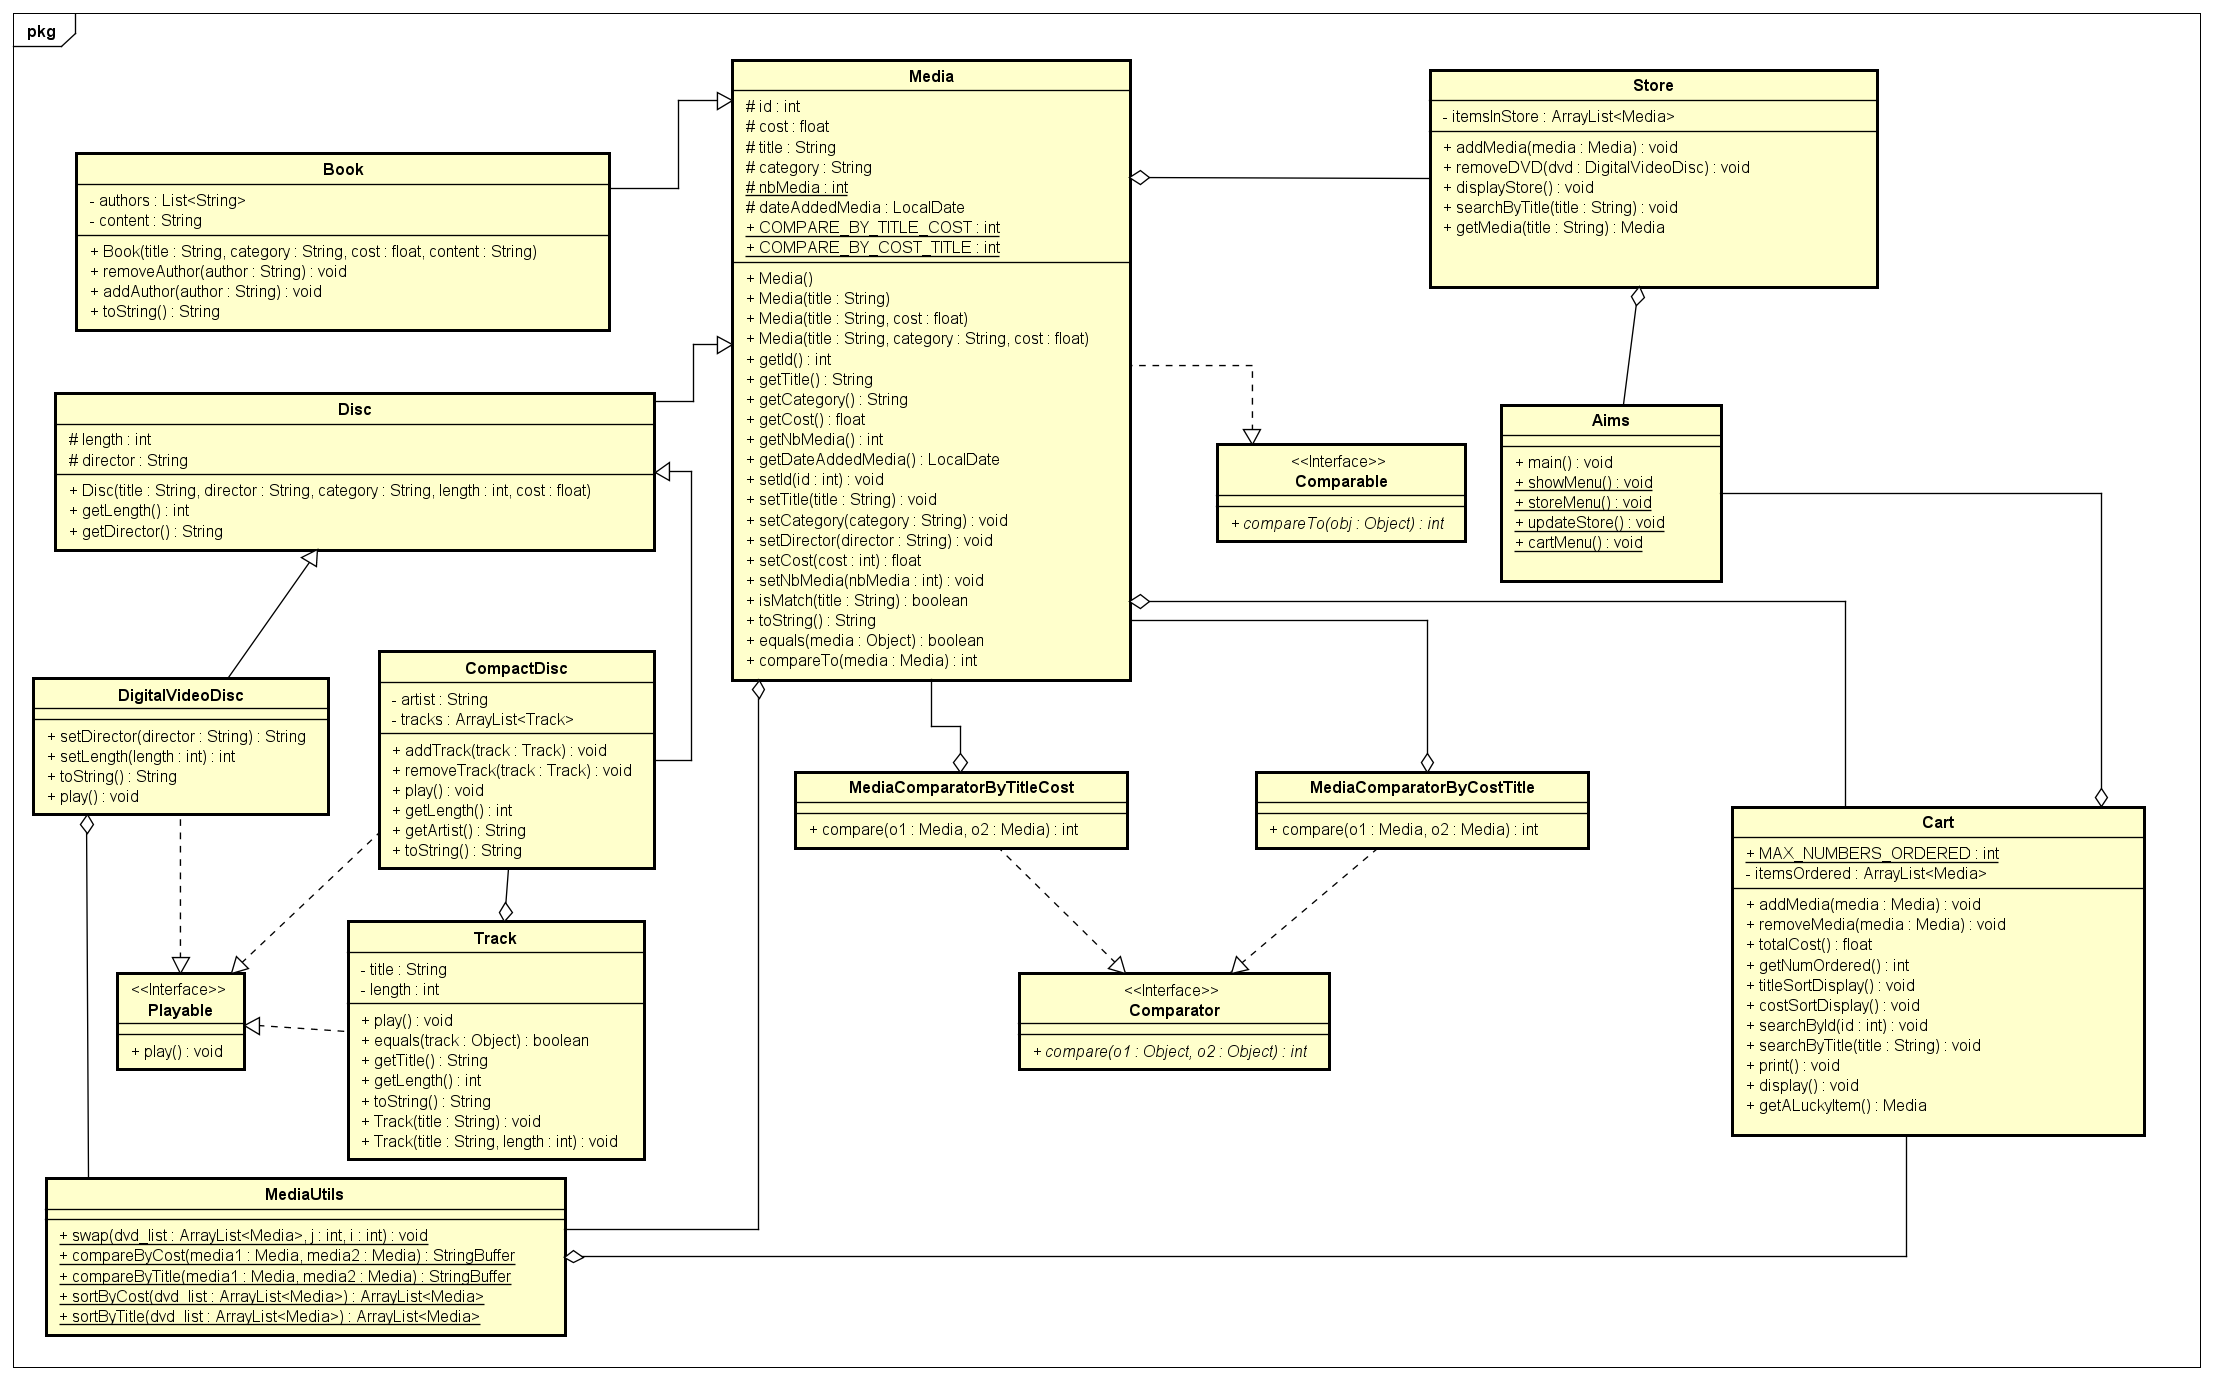
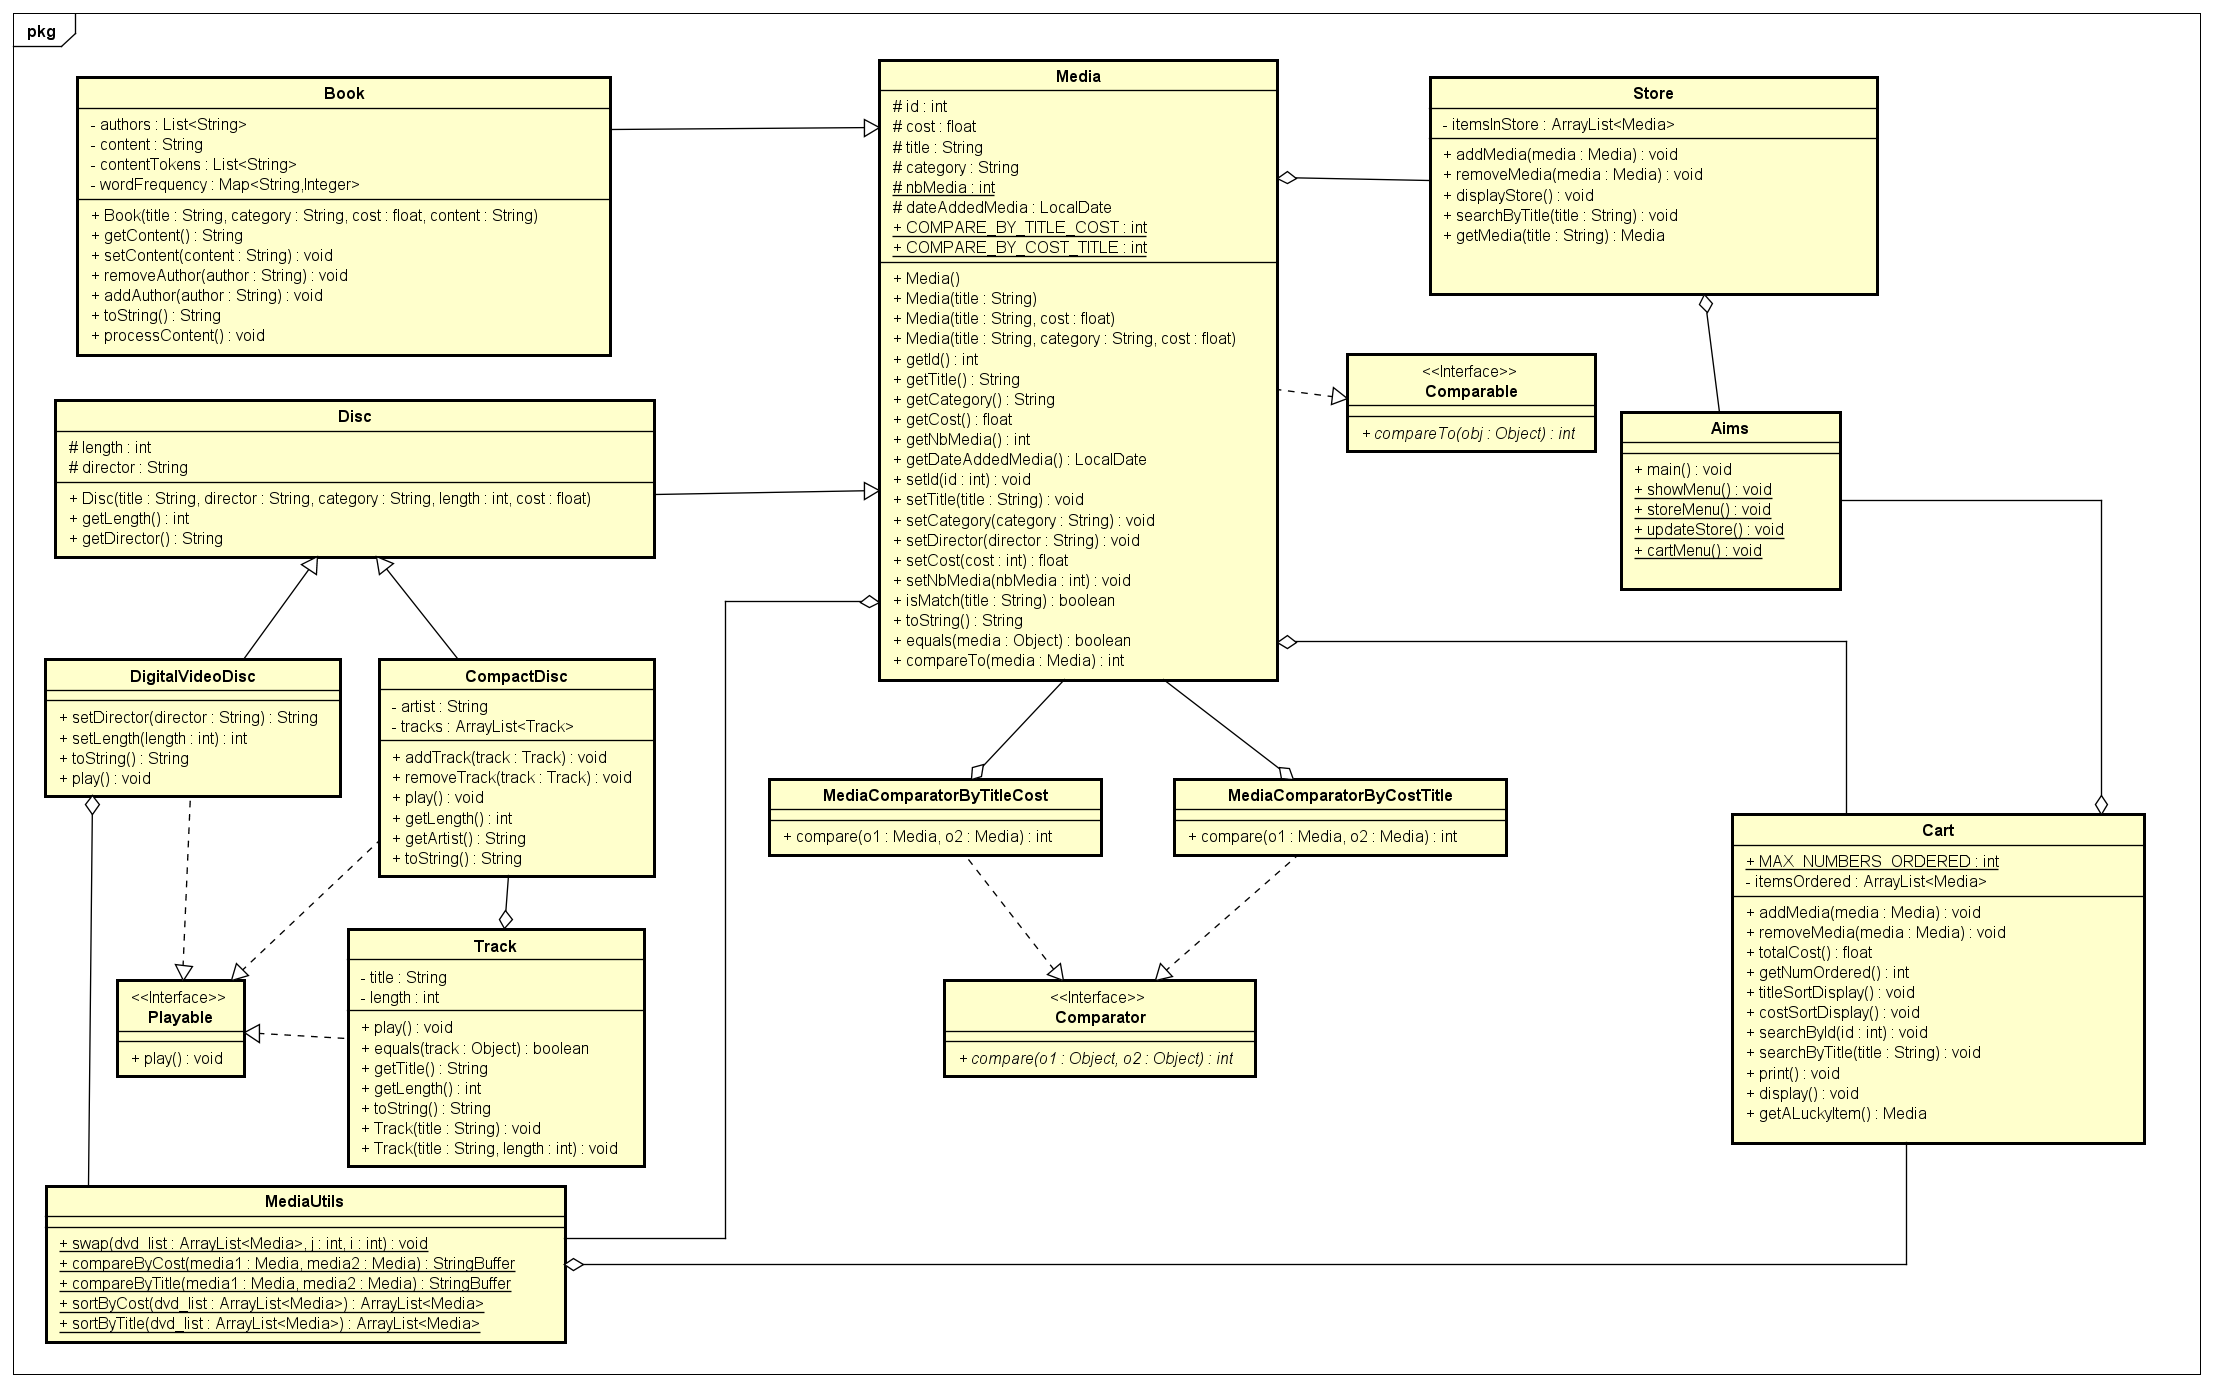
update book method

diff --git a/Aims/AimsProject/src/hust/soict/dsai/aims/media/Book.java b/Aims/AimsProject/src/hust/soict/dsai/aims/media/Book.java
@@ -1,12 +1,18 @@
 package hust.soict.dsai.aims.media;
 
 import java.util.ArrayList;
+import java.util.Arrays;
 import java.util.List;
+import java.util.Map;
+import java.util.TreeMap;
 
 public class Book extends Media{
 
 	private List<String> authors = new ArrayList<String>();
 	private String content;
+	private List<String> contentTokens;
+	private Map<String, Integer> wordFrequency;
+	
 	
 	public Book() {
 		// TODO Auto-generated constructor stub
@@ -30,6 +36,14 @@ public class Book extends Media{
 		this.content = content;
 	}
 	
+	public String getContent() {
+		return content;
+	}
+
+	public void setContent(String content) {
+		this.content = content;
+	}
+
 	public void addAuthor(String authorName) {
 		for (String author: authors) {
 			if (author.equals(authorName)) {
@@ -57,7 +71,25 @@ public class Book extends Media{
 				"Category: " + this.getCategory() + 
 				"\n" + "Authors: " + "\n" + 
 				((this.authors.size()==0) ? null : String.join("||", this.authors)) + "\n" +
-				"Content length: " + ((this.content==null)?null:(this.content.trim().split("\\s+").length)); 
+				"Content length: " + ((this.getContent()==null)?null:(this.getContent().trim().split("\\s+").length)) + "\n" +
+				"Token list: " + this.wordFrequency.keySet() + "\n" +
+				"Word frequency: " + this.wordFrequency; 
 	}
 	
+	public void processContent() {
+		List<String> sorted = Arrays.asList(this.getContent().toLowerCase().split("\\s+"));
+		java.util.Collections.sort(sorted);
+		this.contentTokens = sorted;
+		
+		wordFrequency = new TreeMap<String, Integer>();
+		for (String token:this.contentTokens) {
+			if (wordFrequency.get(token)==null) {
+				wordFrequency.put(token, 1);
+			}
+			else {
+				wordFrequency.put(token, wordFrequency.get(token)+1);
+			}
+		}
+		
+	}
 }

diff --git a/Aims/AimsProject/src/hust/soict/dsai/aims/store/Store.java b/Aims/AimsProject/src/hust/soict/dsai/aims/store/Store.java
@@ -12,26 +12,17 @@ public class Store {
 	}
 	
 	public void removeMedia(Media media) {
-		ArrayList<Media> newOrdered = new ArrayList<Media>();
-		int before = itemsInStore.size();
-		
 		if (media==null) {
 			System.out.println("Media is blank!");
 			return ;
 		}
 		
-		for (Media item: itemsInStore) {
-			if (item.getTitle()!=media.getTitle()) {
-				newOrdered.add(item);
+		for (int i=0; i<this.itemsInStore.size(); i++) {
+			if (media.equals(this.itemsInStore.get(i))) {
+				itemsInStore.remove(i);
+				System.out.println("Media has been removed successfully");
+				return ;
 			}
-		}
-		this.itemsInStore = newOrdered;
-		int after = itemsInStore.size();
-		if (before==after) {
-			System.out.println("No media has been removed");
-		}
-		else {
-			System.out.println((before-after) + " items has been removed");
 		}
 	}
 

diff --git a/Aims/AimsProject/src/hust/soict/dsai/test/map/TestMap.java b/Aims/AimsProject/src/hust/soict/dsai/test/map/TestMap.java
@@ -1,0 +1,17 @@
+package hust.soict.dsai.test.map;
+
+import hust.soict.dsai.aims.media.Book;
+
+public class TestMap {
+
+	public static void main(String[] args) {
+		// TODO Auto-generated method stub
+		Book book = new Book("Jungle book");
+		String content = "The Jungle Book is a 2016 American adventure drama film directed and produced by Jon Favreau, written by Justin Marks and produced by Walt Disney Pictures.";
+		book.setContent(content);
+		
+		book.processContent();
+		System.out.println(book.toString());
+	}
+
+}

diff --git a/Aims/AimsProject/src/hust/soict/dsai/aims/media/Track.java b/Aims/AimsProject/src/hust/soict/dsai/aims/media/Track.java
@@ -10,10 +10,6 @@ public class Track implements Playable {
 		this.title = title;
 	}
 	
-	public Track(int length) {
-		this.length = length;
-	}
-	
 	public Track(String title, int length) {
 		this.title = title;
 		this.length = length;
